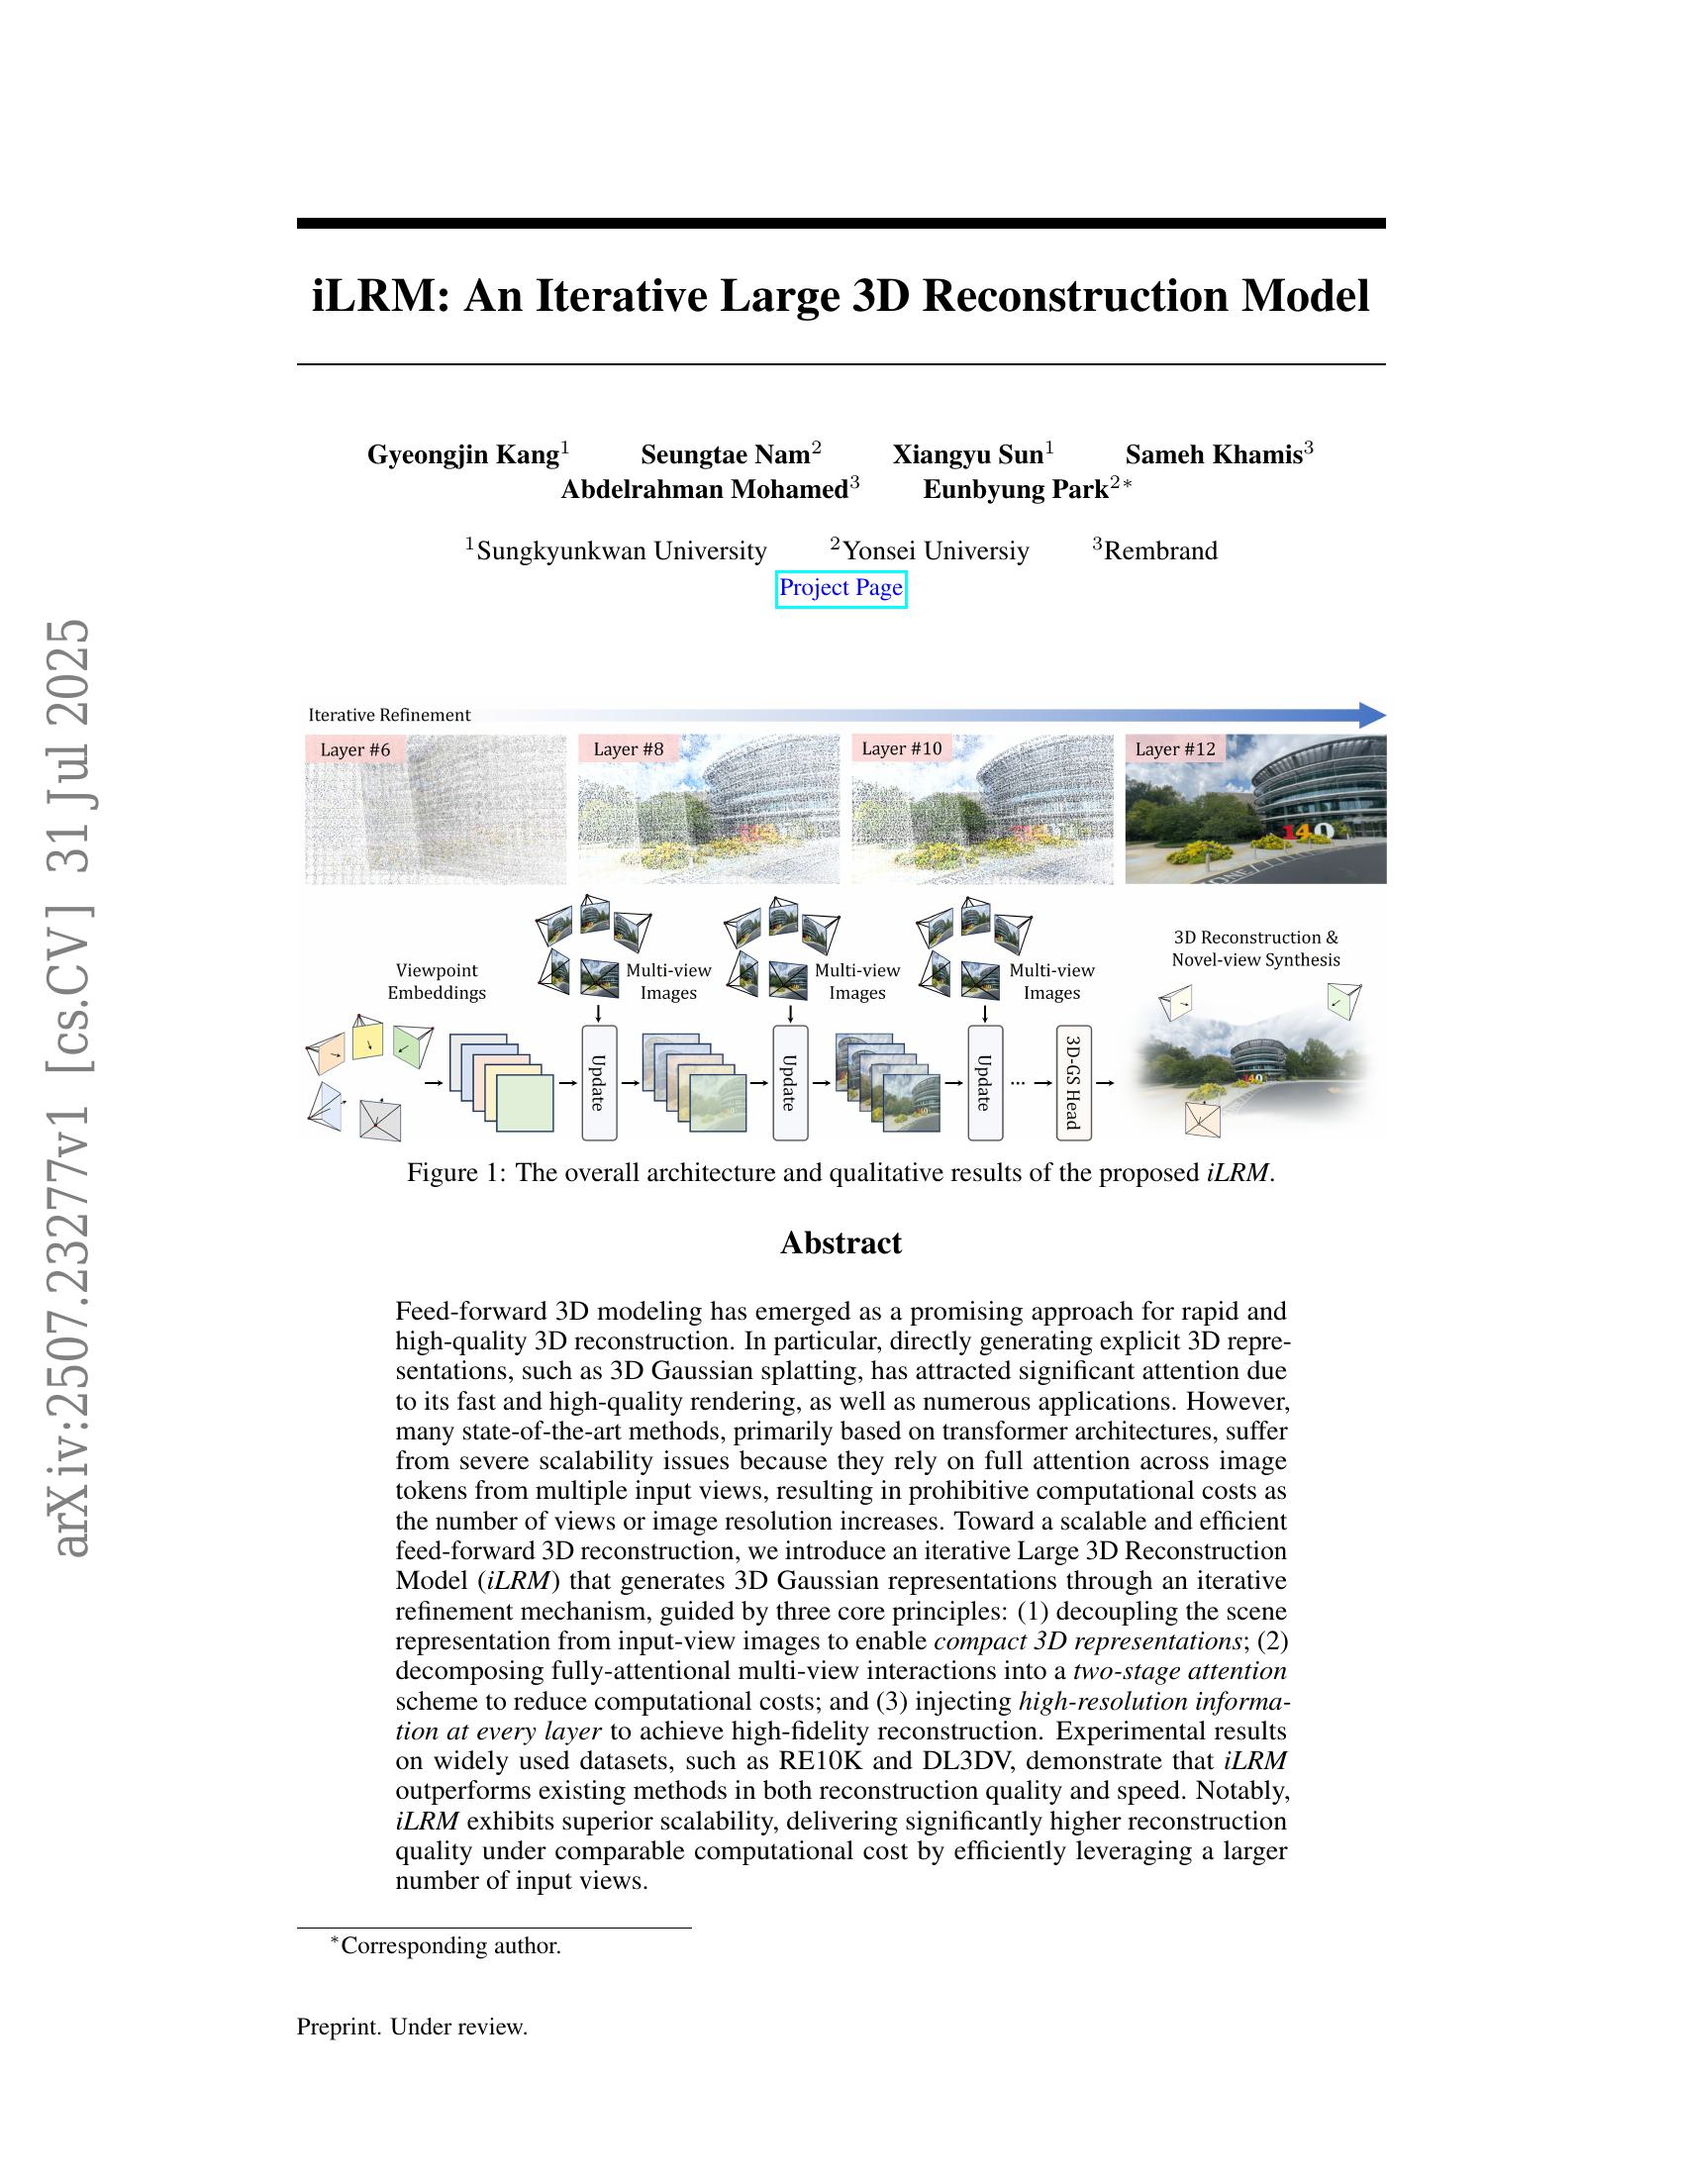
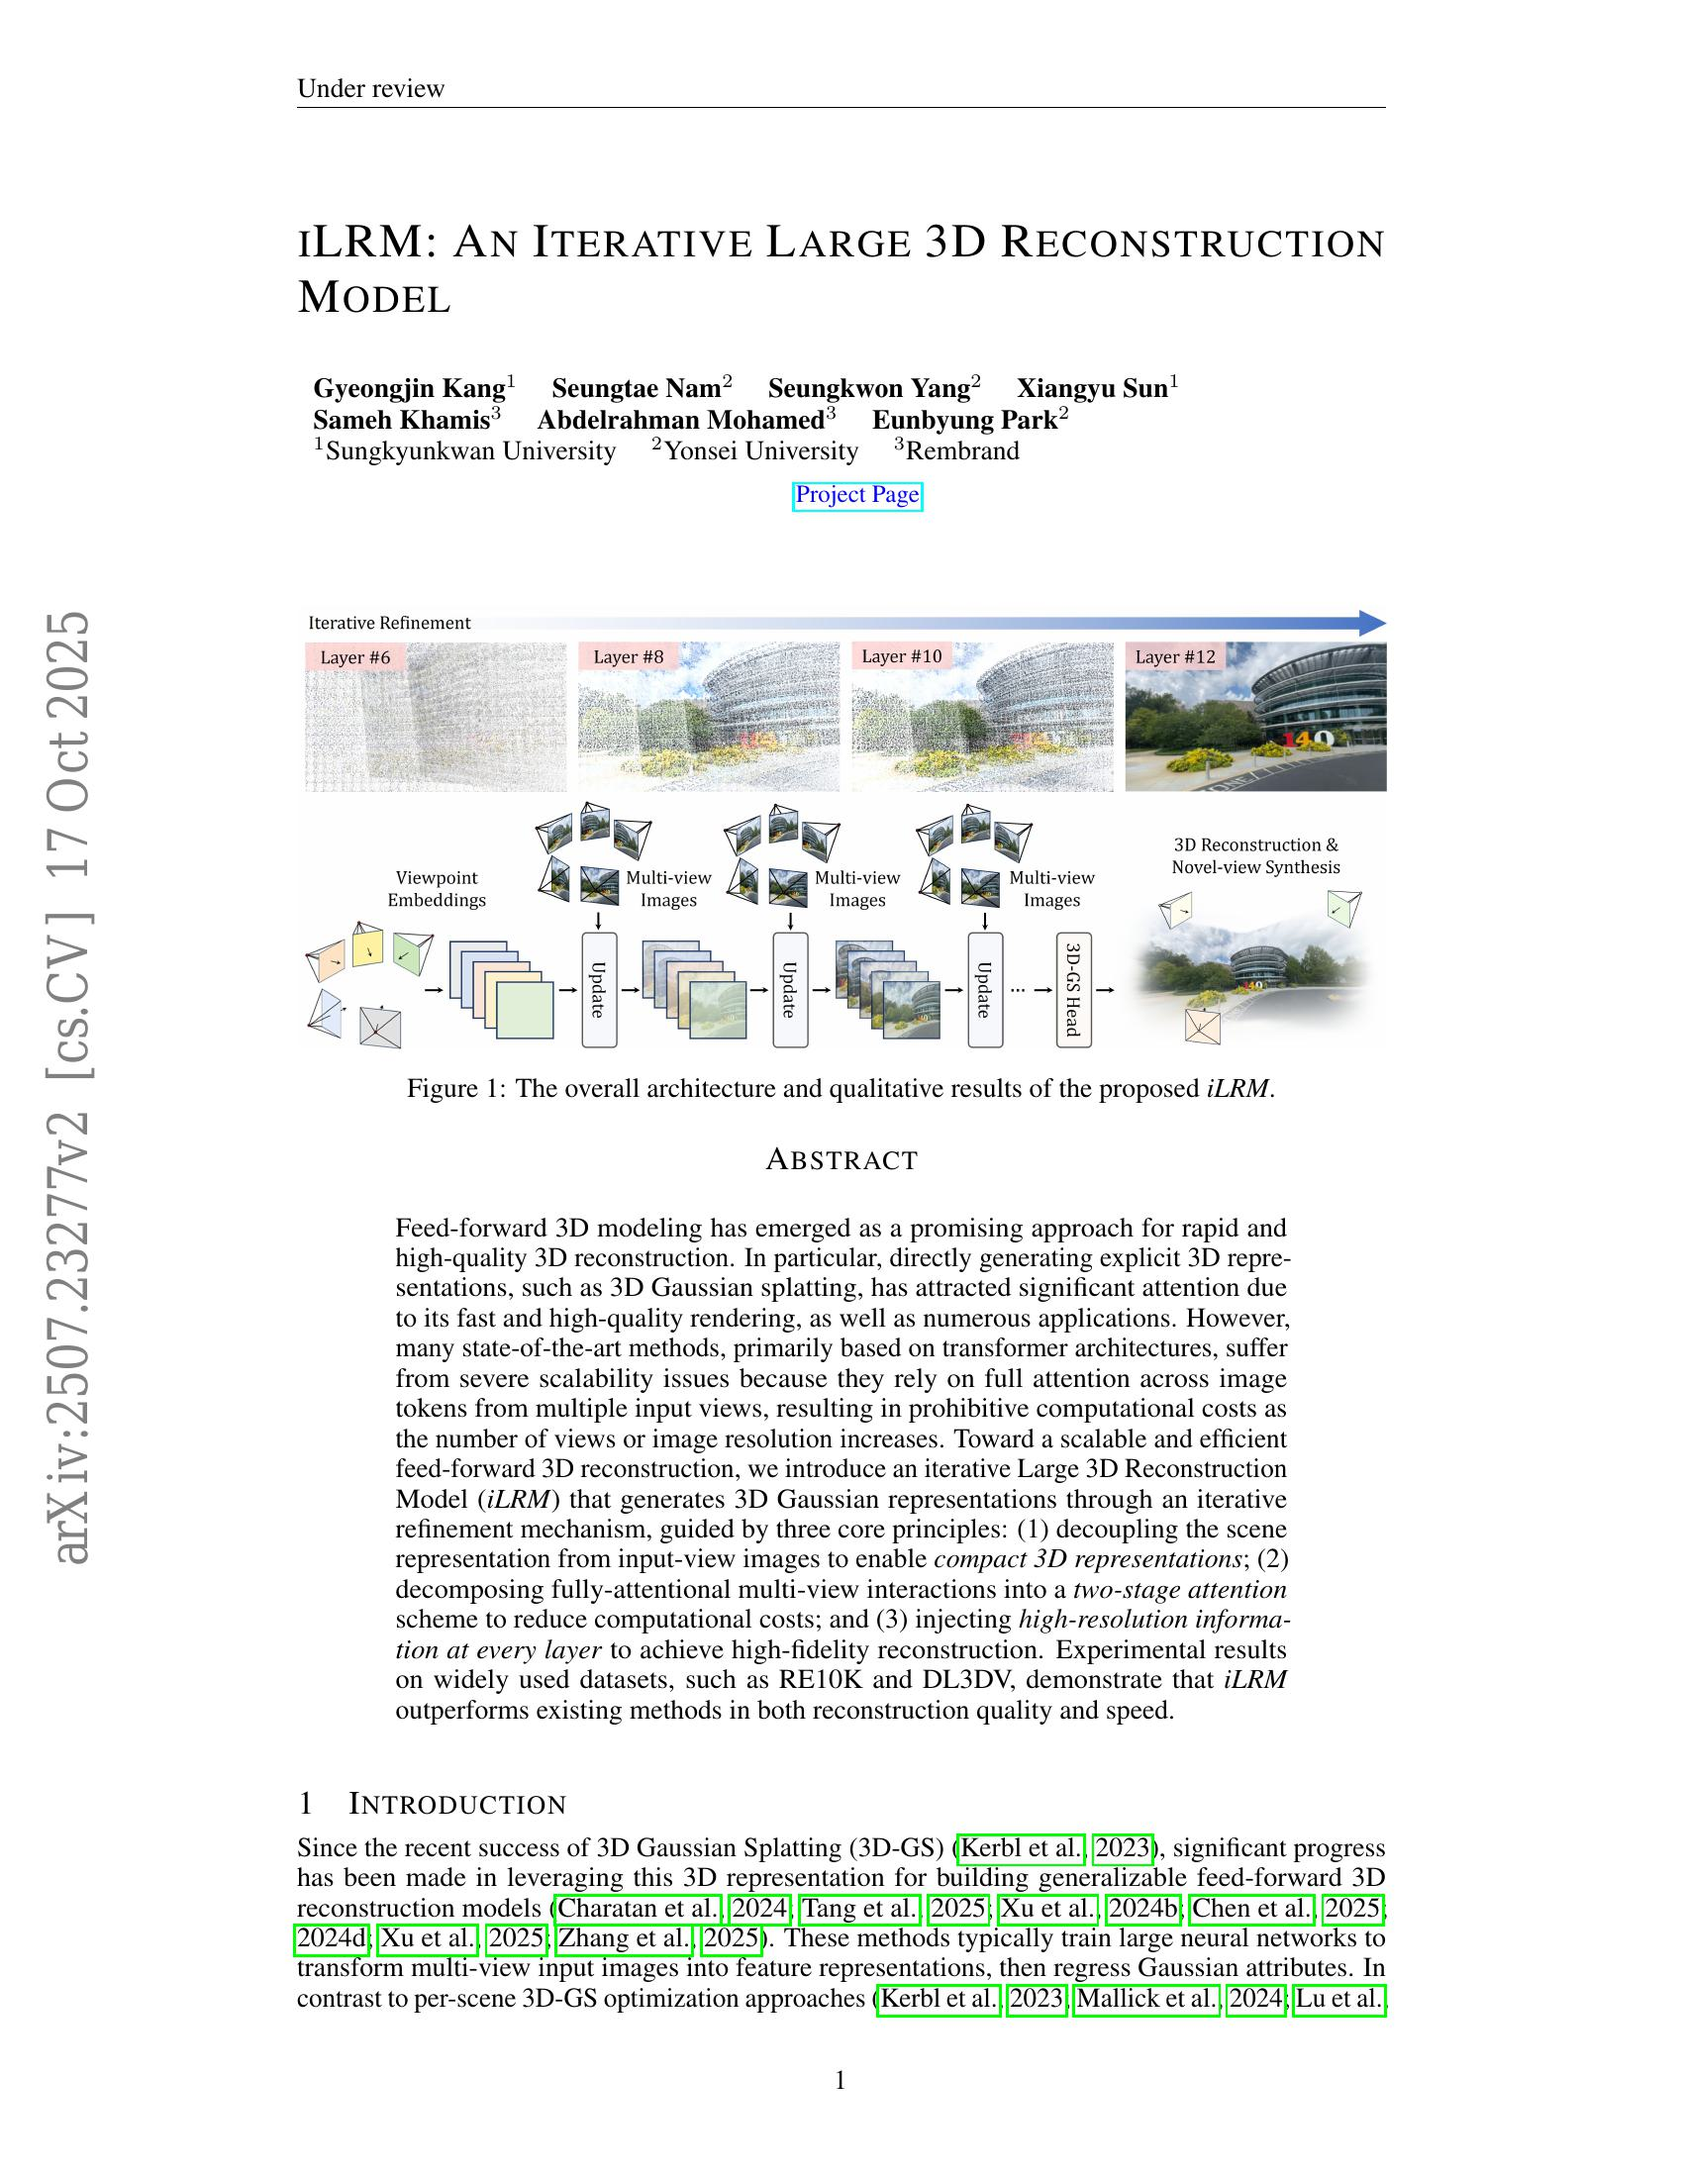
edit info

diff --git a/src/PublicationPage.js b/src/PublicationPage.js
@@ -41,7 +41,7 @@ const publications = [
         year: "Preprints", 
         title: "iLRM: An Iterative Large 3D Reconstruction Model", 
         journal: "arXiv:2507.23277", 
-        authors: "Gyeongjin Kang, Seungtae Nam, Xiangyu Sun, Sameh Khamis, Abdelrahman Mohamed, Eunbyung Park",
+        authors: "Gyeongjin Kang, Seungtae Nam, Seungkwon Yang, Xiangyu Sun, Sameh Khamis, Abdelrahman Mohamed, Eunbyung Park",
         links: {
             paper: "https://arxiv.org/abs/2507.23277",
             project: "https://gynjn.github.io/iLRM/",

diff --git a/src/TeamPage.js b/src/TeamPage.js
@@ -75,7 +75,7 @@ const TeamPage = () => {
             desc: 'MS-PhD Integrated Student',
             email: 'lms@yonsei.ac.kr', 
             scholar: '',
-            github: 'https://github.com/lms20031'   
+            github: 'https://github.com/MinShirley'   
         },
         { 
             name: 'Jungwoo Kim', 

diff --git a/thumb.py b/thumb.py
@@ -9,7 +9,7 @@ def pdf_to_thumbnail(pdf_path, output_path):
     except Exception as e:
         print(f"Error generating thumbnail: {e}")
 
-pdf_path = "/home/vlab/2510.03857v1.pdf"
+pdf_path = "/home/vlab/2507.23277v2.pdf"
 output_path = "./thumbnail.jpg"
 
 pdf_to_thumbnail(pdf_path, output_path)
